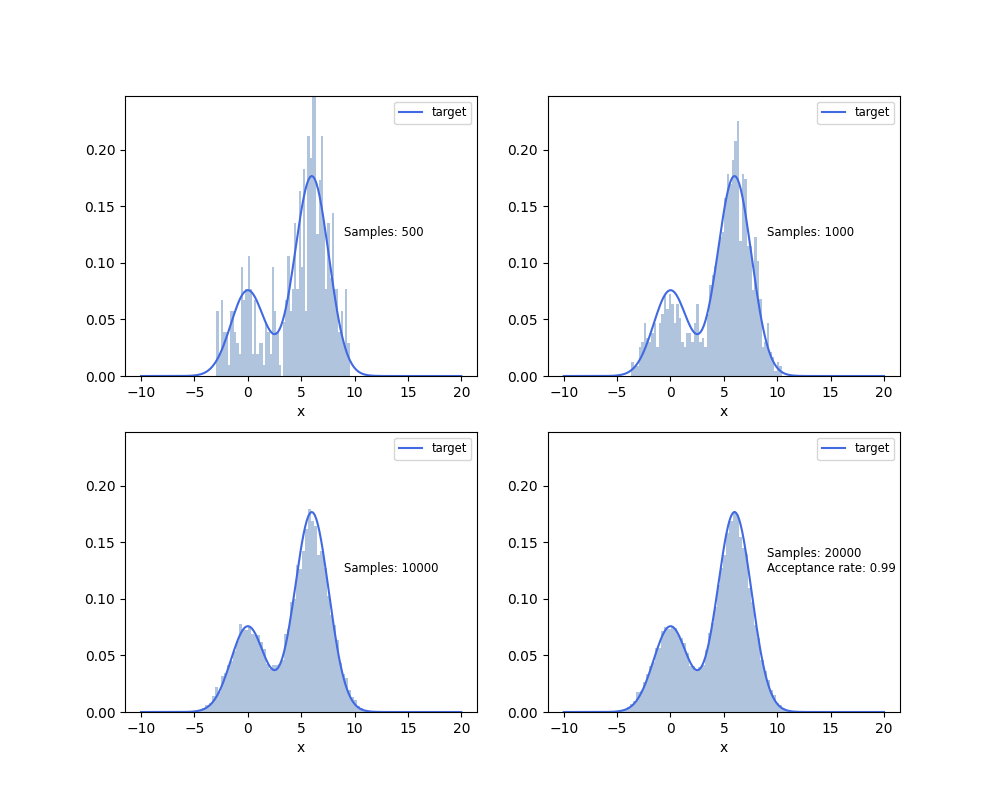
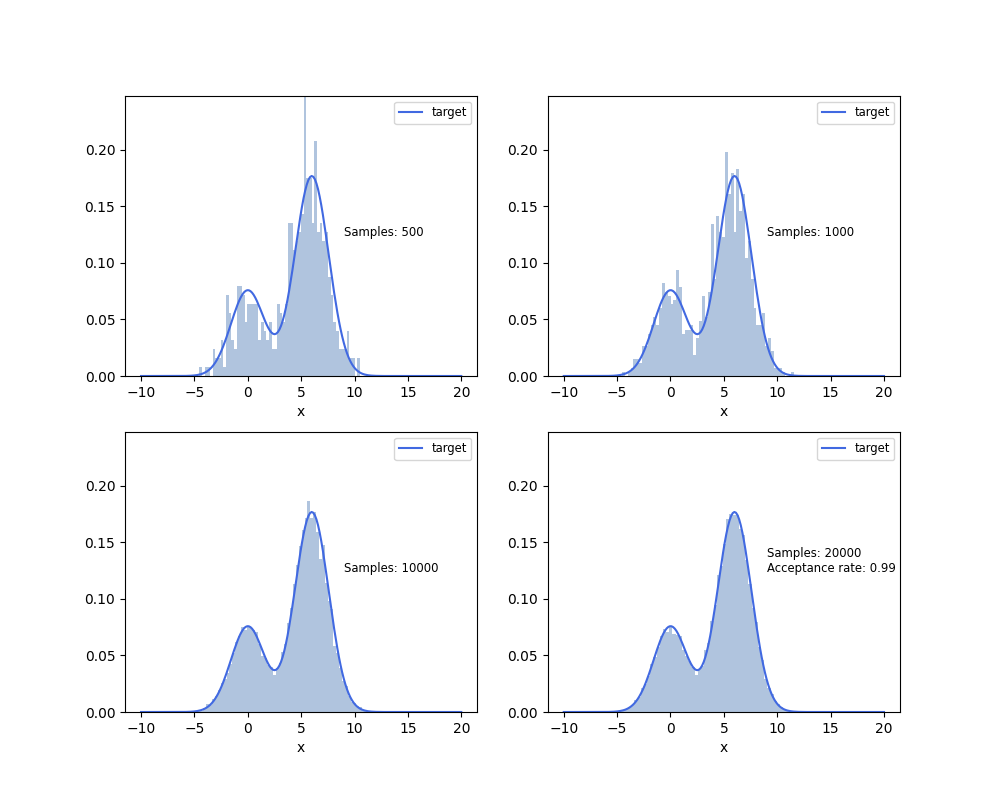
changes to HMC

Changed region(s): [[0.186, 0.125, 0.372, 0.4688], [0.713, 0.1875, 0.775, 0.4375], [0.62, 0.3438, 0.713, 0.4688]]

diff --git a/Chapter3/HMC.py b/Chapter3/HMC.py
@@ -52,7 +52,7 @@ class HMC:
         dU = sp.diff(-sp.ln(target(x)))
         return sp.lambdify(x, dU, 'numpy')
     
-    def HMC_step(self, q_cur, ε=0.5, L=16):
+    def HMC_step(self, q_cur, ε, L):
         p_cur = np.random.normal(0, 1)
         q = q_cur
         p = p_cur
@@ -78,10 +78,10 @@ class HMC:
         else:
             return q_cur
     
-    def sample(self, n, q_init):
+    def sample(self, n, q_init, step_size=0.6, steps=15):
         x = q_init
         for i in range(n):
-            x = self.HMC_step(x)
+            x = self.HMC_step(x, step_size, steps)
             self.trace.append(x)
             printProgressBar(i+1, n, f'{i+1}/{n} samples, {self.n_div} divs')
         print(f'\n{self.n_div} divegernt samples')
@@ -90,7 +90,7 @@ class HMC:
 def main():
     n_samples = 20000
     model = HMC(target)
-    model.sample(n=n_samples, q_init=5)
+    model.sample(n=n_samples, q_init=5, step_size=0.6, steps=16)
     chain = np.array(model.trace)
     target_norm, _ = quad(target, -np.inf, np.inf)
     
